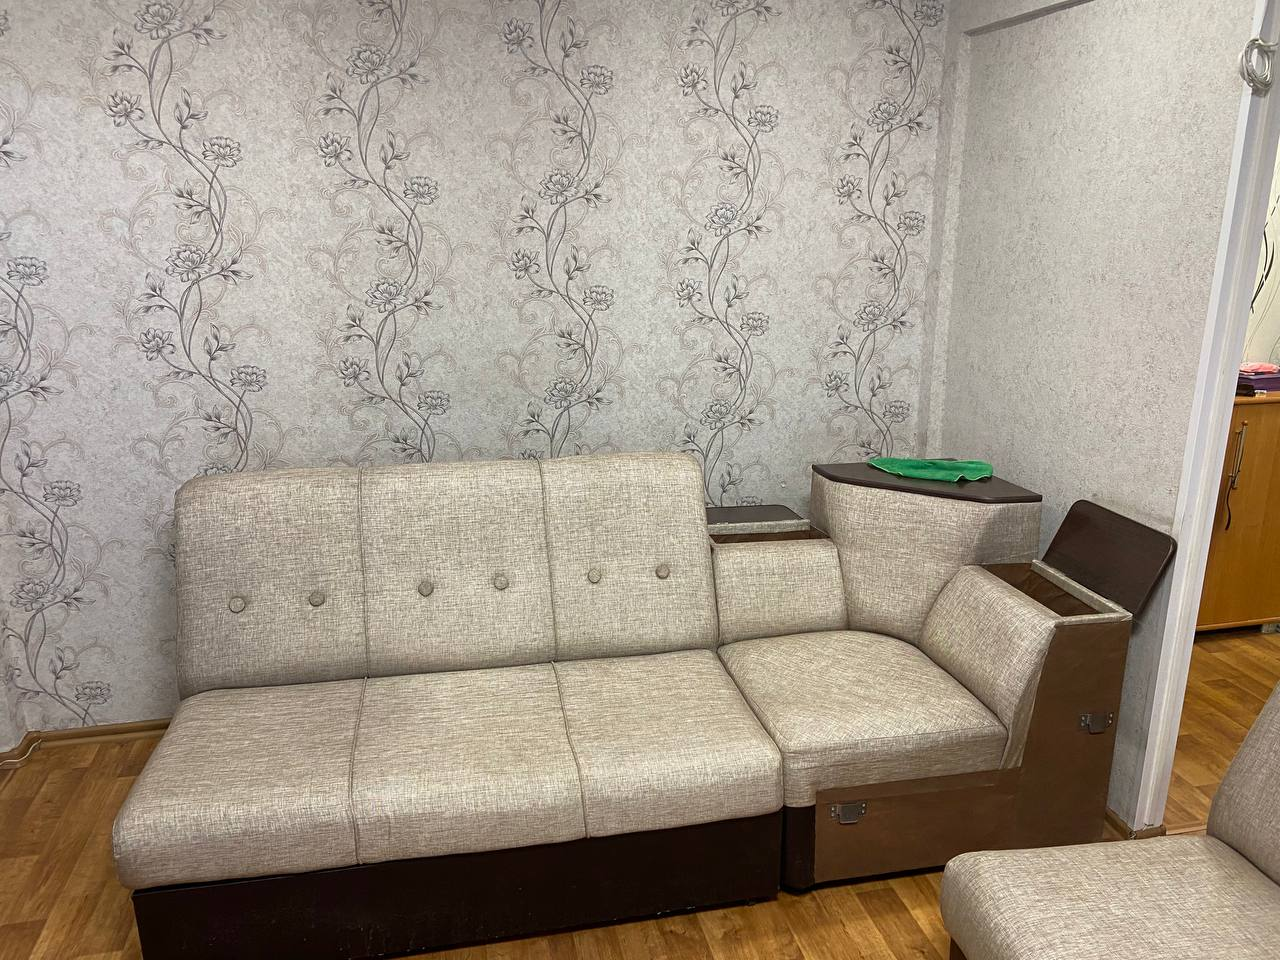
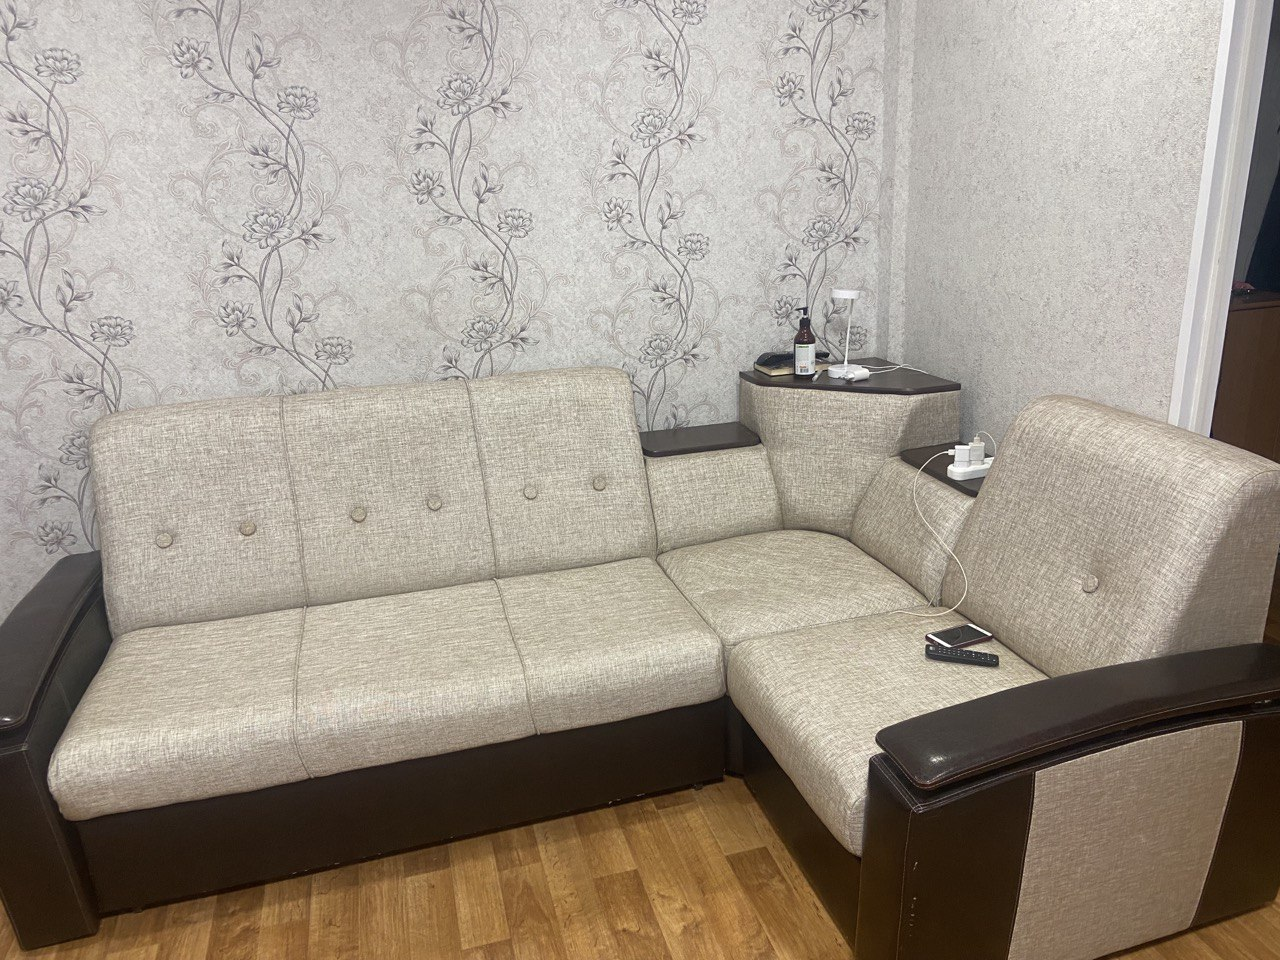
add examples

diff --git a/index.html b/index.html
@@ -395,13 +395,13 @@
                   <div class="before-after-block d-flex justify-content-center">
                     <p class="fs-4 text-center before-after">До</p>
                   </div>
-                  <img class="img img-fluid" src="./img/examples/exam-1-before.jpg" alt="before">
+                  <img class="img img-fluid" src="./img/examples/exam-2-before.jpg" alt="before">
                 </div>
                 <div class="col">
                   <div class="before-after-block d-flex justify-content-center">
                     <p class="fs-4 text-center before-after">После</p>
                   </div>
-                  <img class="" src="./img/examples/exam-1-after.jpg" alt="after">
+                  <img class="" src="./img/examples/exam-2-after.jpg" alt="after">
                 </div>
               </div>
             </div>
